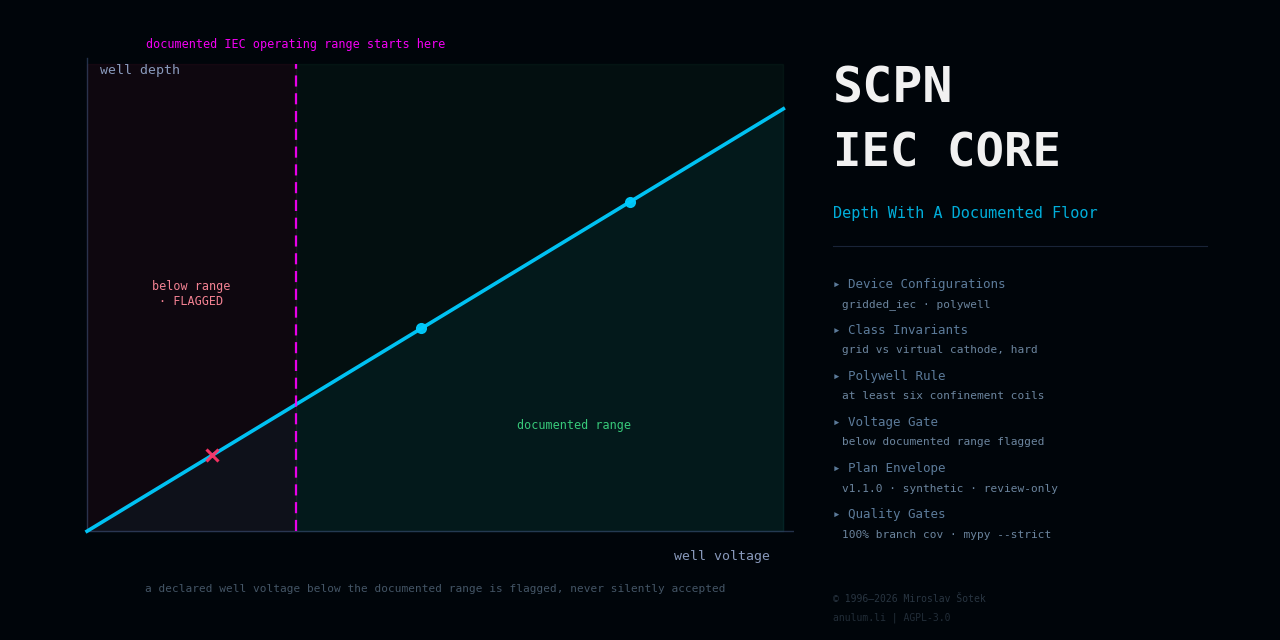
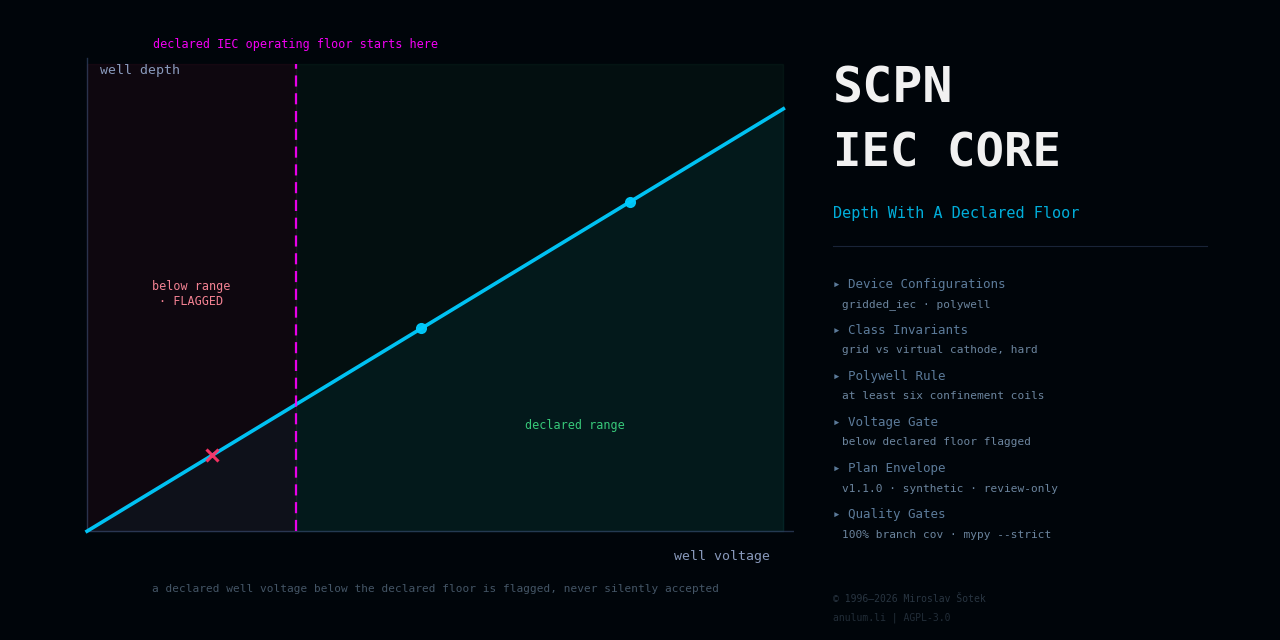
docs(assets): align the header artwork with the declared voltage floor
The header generator still printed the removed Hirsch (1967) credit under
the gridded cathode and called the 20 kV floor "documented". The labels
now match 7578117: the gridded panel cites the filed Radel (2007) thesis,
and the floor, gate and caption say "declared". The three PNGs are
regenerated with docs/assets/generate_header.py; a regeneration from the
unchanged generator was byte-identical first, so the image changes come
from the label edits only. The two changed images were viewed.

Verification: ruff check and format clean on the generator; staged diff
read before commit.

Seat: 09bd
Authored by Anulum Fortis & Arcane Sapience (protoscience@anulum.li)

diff --git a/docs/assets/generate_header.py b/docs/assets/generate_header.py
@@ -11,7 +11,7 @@
 Every image is original generated artwork derived from this repository's
 own domain surface — the electrostatic potential well with converging
 ions, the gridded-versus-polywell class split drawn at the repository's
-own minimum coil count, and the documented well-voltage range. The
+own minimum coil count, and the declared well-voltage floor. The
 right-hand text panel states only facts backed by the repository
 itself.
 
@@ -22,7 +22,7 @@ Outputs (written next to this script):
 - ``repo_header_class_split.png`` — the physical grid cathode beside
   the polywell virtual cathode.
 - ``repo_header_voltage_range.png`` — well depth against voltage with
-  the documented operating floor.
+  the declared operating floor.
 
 Generation-time tooling only: requires ``numpy`` and ``matplotlib``,
 which are deliberately not part of the pinned development lock. Run as
@@ -55,7 +55,7 @@ TITLE_METRICS: list[tuple[str, str]] = [
     ("Device Configurations", "gridded_iec · polywell"),
     ("Class Invariants", "grid vs virtual cathode, hard"),
     ("Polywell Rule", "at least six confinement coils"),
-    ("Voltage Gate", "below documented range flagged"),
+    ("Voltage Gate", "below declared floor flagged"),
     ("Plan Envelope", "v1.1.0 · synthetic · review-only"),
     ("Quality Gates", "100% branch cov · mypy --strict"),
 ]
@@ -377,7 +377,7 @@ def generate_class_split() -> None:
     ax.text(
         centre,
         -2.2,
-        "Hirsch, JAP 38 (1967) 4522",
+        "Radel, UWFDM-1325 (2007)",
         color="#445566",
         fontsize=7.5,
         fontfamily="monospace",
@@ -500,7 +500,7 @@ def generate_voltage_range() -> None:
     ax.text(
         floor_x,
         9.25,
-        "documented IEC operating range starts here",
+        "declared IEC operating floor starts here",
         color=MAGENTA,
         fontsize=8.5,
         fontfamily="monospace",
@@ -523,7 +523,7 @@ def generate_voltage_range() -> None:
     ax.text(
         6.6,
         3.3,
-        "documented range",
+        "declared range",
         color=GREEN,
         fontsize=8.5,
         fontfamily="monospace",
@@ -549,14 +549,14 @@ def generate_voltage_range() -> None:
     ax.text(
         5.0,
         0.75,
-        "a declared well voltage below the documented range is "
+        "a declared well voltage below the declared floor is "
         "flagged, never silently accepted",
         color="#445566",
         fontsize=8,
         fontfamily="monospace",
         ha="center",
     )
-    _text_panel(fig, "Depth With A Documented Floor")
+    _text_panel(fig, "Depth With A Declared Floor")
     _save(fig, plt, "repo_header_voltage_range.png")
 
 
